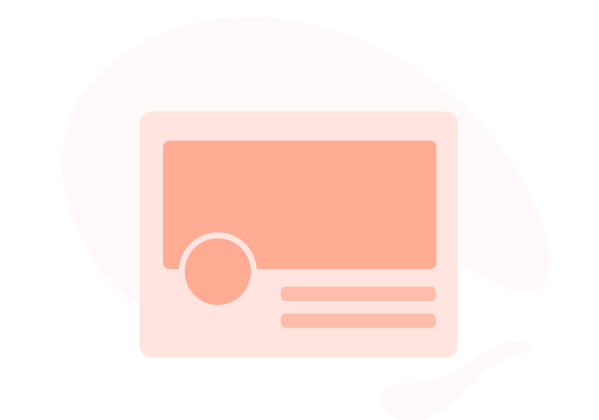
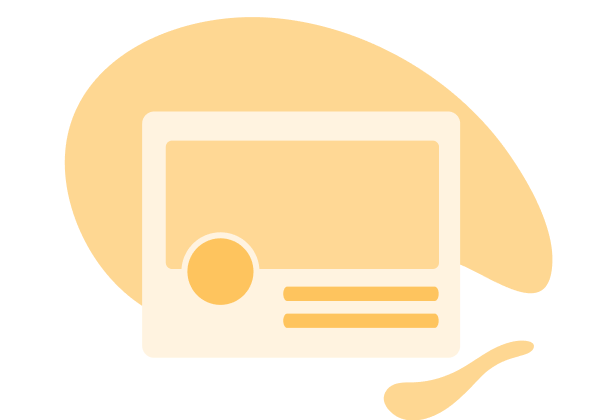
fix(DFP-470): Home screen UI fixes (#101)
* fix(DFP-470): Update noMorePosts image

* feat(DFP-470): Hide postInteraction buttons if end of list is reached

diff --git a/src/screens/Home/index.tsx b/src/screens/Home/index.tsx
@@ -48,10 +48,11 @@ const Home = () => {
     handlePressReactions,
     handlePressProfile,
     handlePressComments,
-    selectedIndex,
-    setSelectedIndex,
+    selectedFilterIndex,
+    setSelectedFilterIndex,
     onPostChanged,
     postData,
+    selectedPostIndex,
   } = useHooks();
 
   const {profileData} = useActiveAccount();
@@ -90,8 +91,8 @@ const Home = () => {
 
         <View style={styles.tabContainer}>
           <PostTypeTab
-            selectedIndex={selectedIndex}
-            setSelectedIndex={setSelectedIndex}
+            selectedIndex={selectedFilterIndex}
+            setSelectedIndex={setSelectedFilterIndex}
             postTypes={postTypes}
           />
         </View>
@@ -125,25 +126,27 @@ const Home = () => {
         }}
       />
 
-      <View style={styles.interactionButtonGroup}>
-        <InteractionButton
-          onPress={() => handlePressComments()}
-          interactionCount={10500}
-          icon={commentIcon}
-        />
+      {selectedPostIndex !== postData.length && (
+        <View style={styles.interactionButtonGroup}>
+          <InteractionButton
+            onPress={() => handlePressComments()}
+            interactionCount={10500}
+            icon={commentIcon}
+          />
 
-        <InteractionButton
-          onPress={handlePressReactions}
-          interactionCount={100}
-          icon={optionsIcon}
-        />
+          <InteractionButton
+            onPress={handlePressReactions}
+            interactionCount={100}
+            icon={optionsIcon}
+          />
 
-        <InteractionButton
-          onPress={handlePressTip}
-          interactionCount={100000000}
-          icon={tipIcon}
-        />
-      </View>
+          <InteractionButton
+            onPress={handlePressTip}
+            interactionCount={100000000}
+            icon={tipIcon}
+          />
+        </View>
+      )}
     </DView>
   );
 };

diff --git a/src/screens/Home/useHooks.ts b/src/screens/Home/useHooks.ts
@@ -17,7 +17,7 @@ const useHooks = () => {
   const {posts, fetchNewPosts} = useGetPosts();
   const {following} = useGetFollowing();
   const {navigate, pop} = useNavigation<NavProps['navigation']>();
-  const [selectedIndex, setSelectedIndex] = React.useState(0);
+  const [selectedFilterIndex, setSelectedFilterIndex] = React.useState(0);
   const [selectedPostIndex, setSelectedPostIndex] = React.useState(0);
   const [activeAddress] = useMMKVStorage<string>(MMKVKEYS.ACTIVE_ACCOUNT_ADDR);
   const [bearerToken] = useMMKVStorage<string>(MMKVKEYS.REST_AUTH_TOKEN);
@@ -25,7 +25,7 @@ const useHooks = () => {
   const {checkGrants} = useCheckGrants();
 
   const postData = React.useMemo(() => {
-    if (selectedIndex === 0) return posts;
+    if (selectedFilterIndex === 0) return posts;
 
     // Get the list of following accounts
     const followedAddresses = following.map(x => x.address);
@@ -34,7 +34,7 @@ const useHooks = () => {
       posts,
       x => followedAddresses.indexOf(x.author_address) !== -1,
     );
-  }, [posts, following, selectedIndex]);
+  }, [posts, following, selectedFilterIndex]);
 
   // useLogin is called here instead of useHooks for better visibility.
   const {login} = useLogin();
@@ -150,10 +150,11 @@ const useHooks = () => {
     handlePressProfile,
     handlePressTip,
     handlePressReactions,
-    selectedIndex,
-    setSelectedIndex,
+    selectedFilterIndex,
+    setSelectedFilterIndex,
     onPostChanged,
     postData,
+    selectedPostIndex,
   };
 };
 
